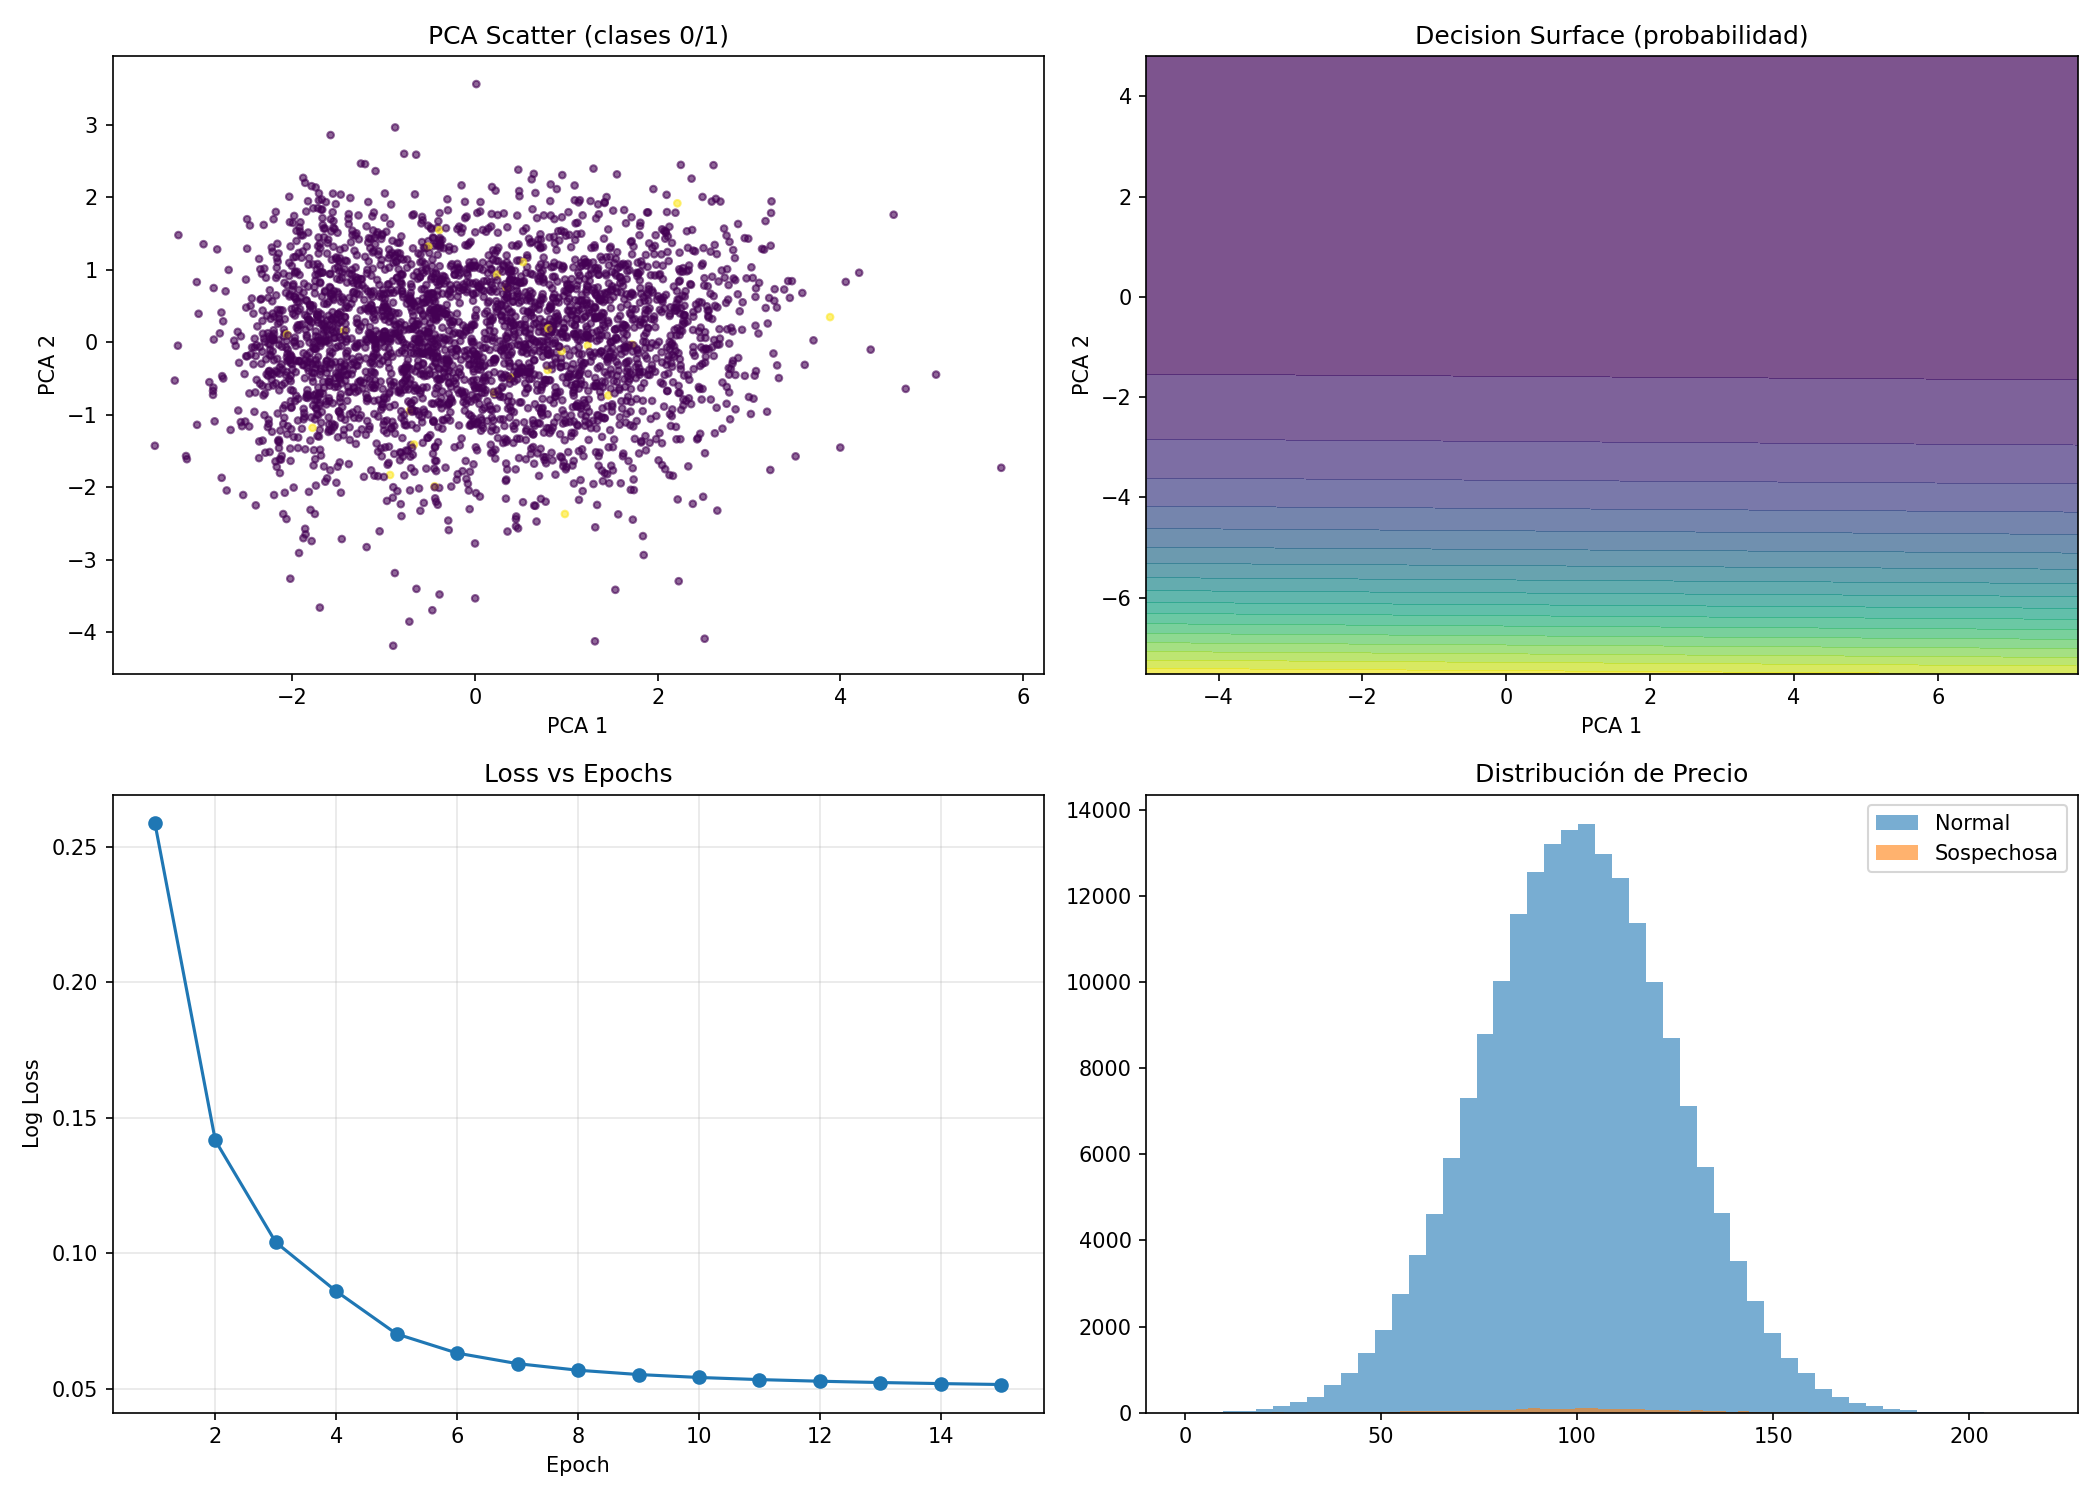
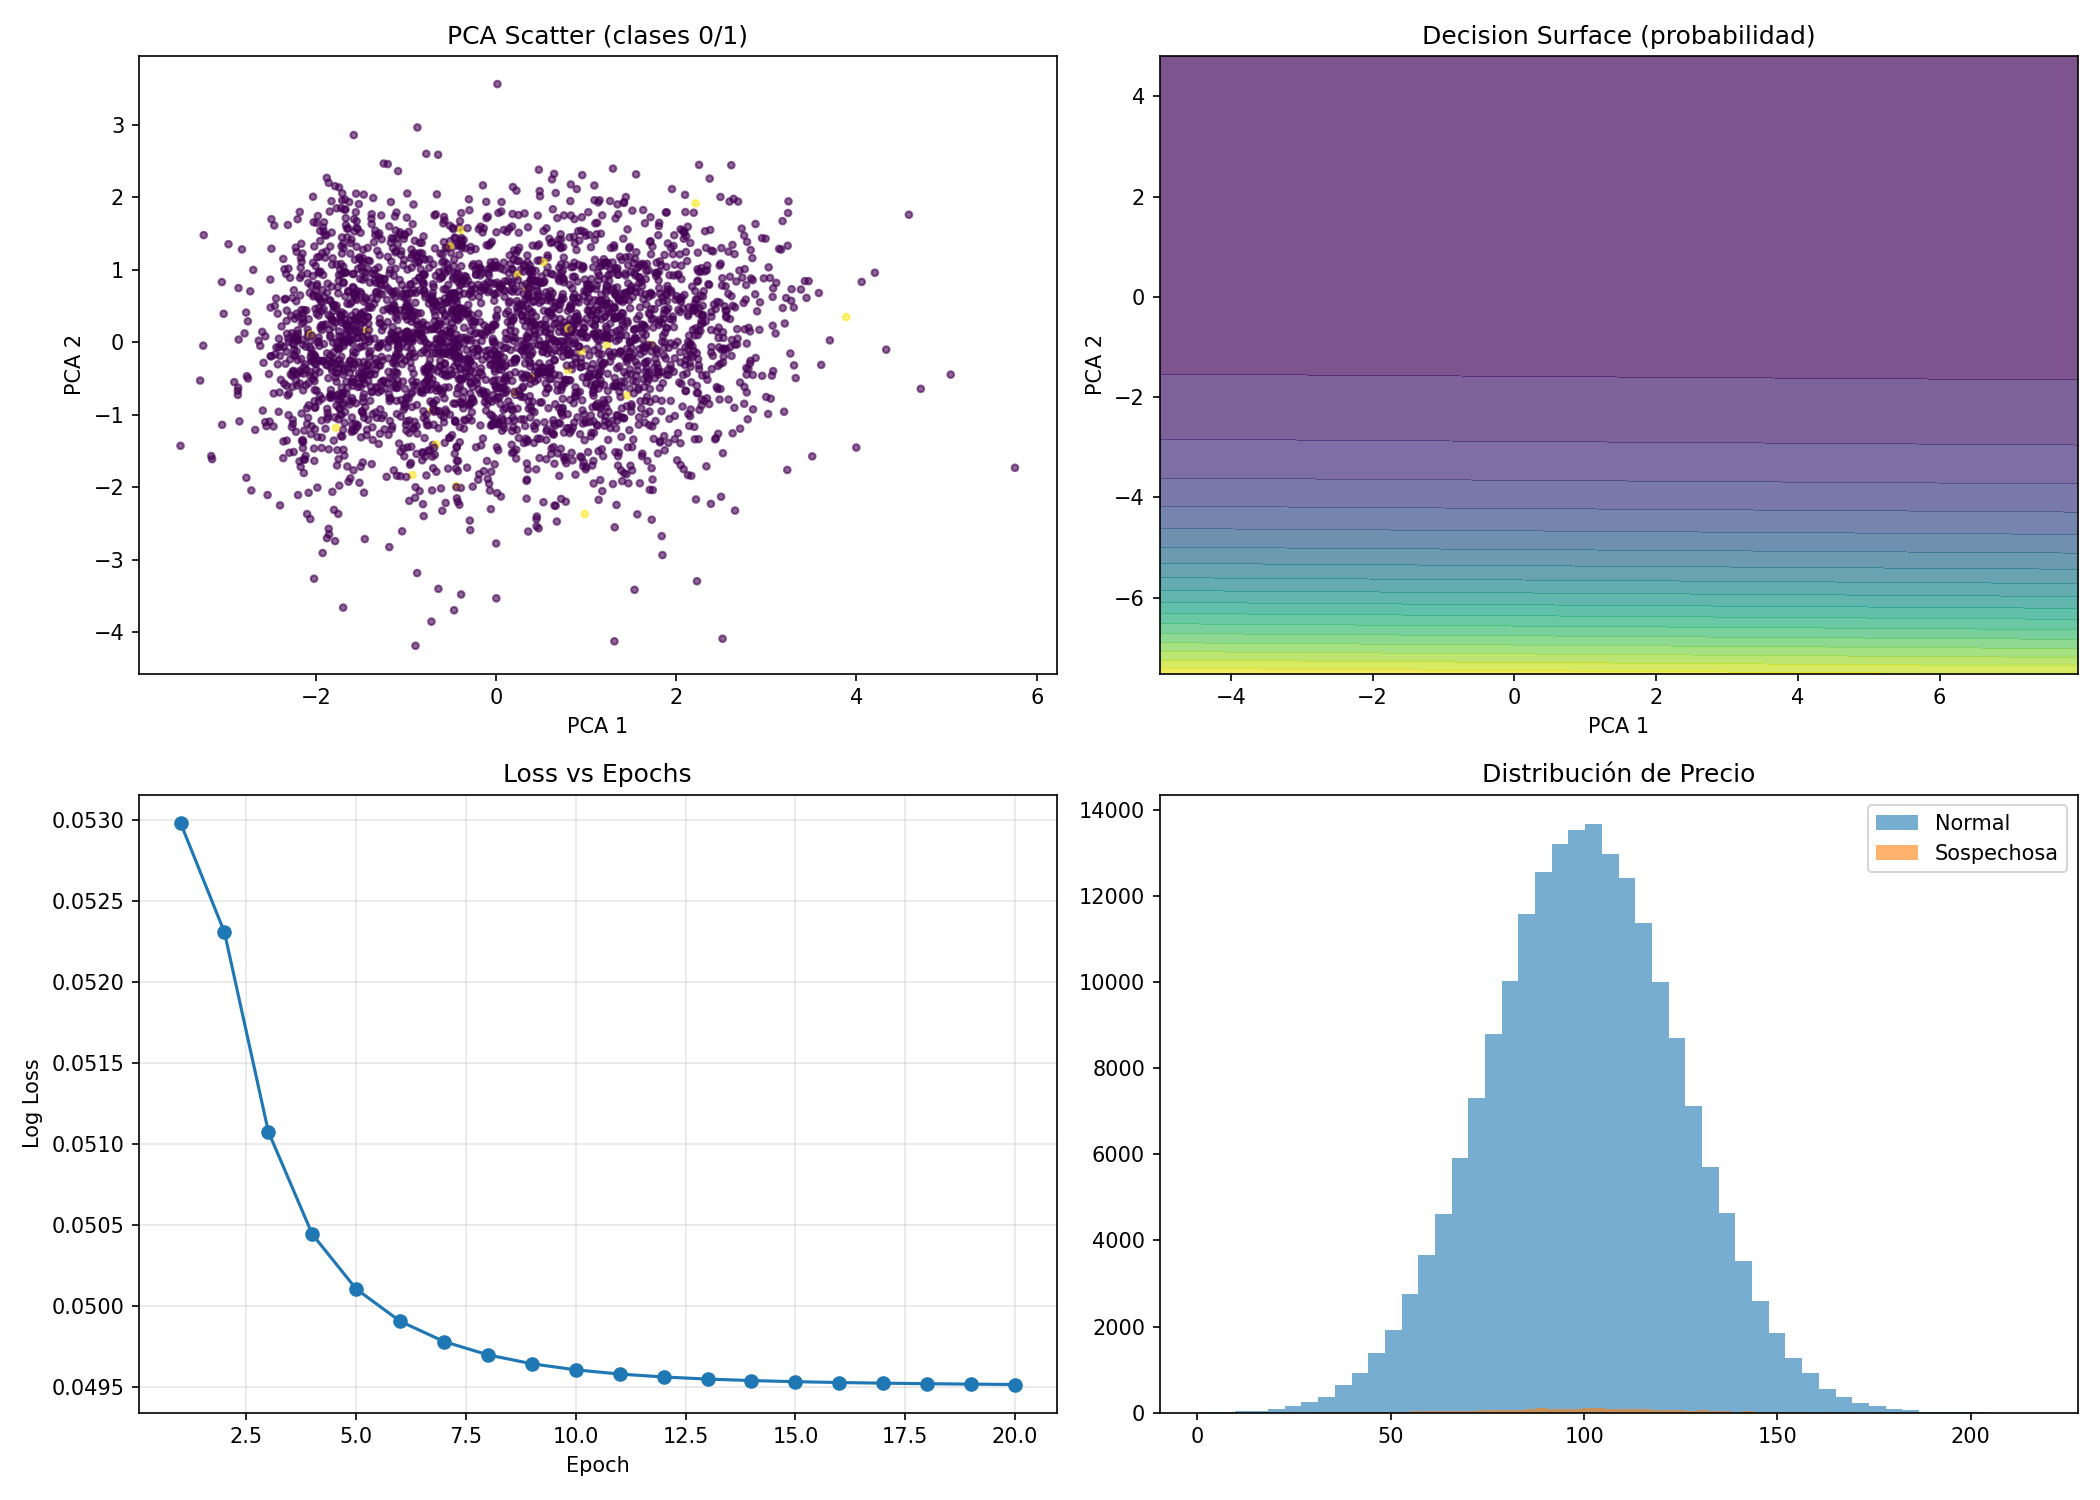
docs: mejorar README con instrucciones paso a paso y manejo de errores

diff --git a/reports/paso2_reporte.html b/reports/paso2_reporte.html
@@ -1,0 +1,55 @@
+
+<!doctype html>
+<html lang="es">
+<head>
+  <meta charset="utf-8" />
+  <title>Paso 2 - Reporte</title>
+  <style>
+    body { font-family: Arial, sans-serif; margin: 24px; color: #111; }
+    h1 { margin: 0 0 8px 0; }
+    .muted { color: #555; }
+    .card { border: 1px solid #ddd; border-radius: 10px; padding: 16px; margin: 14px 0; }
+    table { border-collapse: collapse; width: 100%; }
+    th, td { border: 1px solid #ddd; padding: 10px; text-align: left; }
+    th { background: #f6f6f6; }
+    code { background: #f2f2f2; padding: 2px 6px; border-radius: 6px; }
+  </style>
+</head>
+<body>
+  <h1>PASO 2 - REPORTE (Modelado + Visualización)</h1>
+  <div class="muted">Working directory: <code>C:\laragon\www\analisis-datos-pandas-numpy</code></div>
+
+  <div class="card">
+    <h2>Modelo base</h2>
+    <table>
+      <tr><th>Modelo</th><td>Logistic Regression</td></tr>
+      <tr><th>Accuracy</th><td>0.9901</td></tr>
+    </table>
+  </div>
+
+  <div class="card">
+    <h2>Aprendizaje</h2>
+    <table>
+      <tr><th>Modelo</th><td>SGDClassifier (log_loss)</td></tr>
+      <tr><th>Epochs</th><td>20</td></tr>
+      <tr><th>Loss inicial</th><td>0.052981</td></tr>
+      <tr><th>Loss final</th><td>0.049513</td></tr>
+    </table>
+  </div>
+
+  <div class="card">
+    <h2>Salidas generadas</h2>
+    <table>
+      <tr><th>Decision surface</th><td><code>paso2_decision_surface.png</code></td></tr>
+      <tr><th>Learning curve</th><td><code>paso2_learning_curve_realtime.gif</code></td></tr>
+      <tr><th>Dashboard 2x2</th><td><code>paso2_2x2_dashboard.png</code></td></tr>
+    </table>
+    <p class="muted">Rutas completas:</p>
+    <ul>
+      <li>C:\laragon\www\analisis-datos-pandas-numpy\reports\paso2_decision_surface.png</li>
+      <li>C:\laragon\www\analisis-datos-pandas-numpy\reports\paso2_learning_curve_realtime.gif</li>
+      <li>C:\laragon\www\analisis-datos-pandas-numpy\reports\paso2_2x2_dashboard.png</li>
+    </ul>
+  </div>
+</body>
+</html>

diff --git a/README.md b/README.md
@@ -1,129 +1,116 @@
 📊 Análisis de Datos con Pandas, NumPy & SciPy
-Paso 1: Ingeniería de Características Avanzada
-Este proyecto implementa un pipeline de transformación y análisis de datos utilizando herramientas avanzadas del ecosistema científico de Python.
-Tecnologías utilizadas
-Pandas → Merge complejo y window functions (rolling 48h)
-NumPy → Target Encoding vectorizado (sin bucles for)
-SciPy → Filtro Savitzky–Golay y test estadístico Kolmogorov–Smirnov
-El objetivo es generar features avanzadas listas para modelado o análisis exploratorio.
 
-📁 Estructura del Proyecto:
+Proyecto de ingeniería de características y visualización avanzada utilizando el ecosistema científico de Python.
+
+Este repositorio implementa:
+✔ Generación de datos sintéticos
+✔ Feature Engineering avanzado
+✔ Validaciones estadísticas
+✔ Modelado supervisado
+✔ Visualización de alta dimensionalidad
+✔ Dashboard 2x2 profesional
+✔ Exportación automática de reportes
+
+🧠 ¿Qué hace este proyecto?
+
+Este proyecto simula un entorno real de análisis de transacciones:
+
+Genera usuarios y transacciones.
+Construye variables avanzadas (features).
+Aplica técnicas estadísticas.
+Reduce dimensionalidad.
+Entrena modelos de clasificación.
+Genera visualizaciones y reportes automáticos.
+Está dividido en:
+
+🔹 Paso 1 → Ingeniería de Características
+
+🔹 Paso 2 → Modelado y Visualización
+
+📁 Estructura del Proyecto
 analisis-datos-pandas-numpy/
+│
 ├── src/
-│   └── pipeline_paso1.py
+│   ├── pipeline_paso1.py
+│   ├── paso2_modelo.py
+│   └── paso2_visualizacion.py
+│
 ├── data/
 ├── reports/
 ├── requirements.txt
 └── README.md
+🧩 Requisitos Previos
 
-⚙ Instalación:
-1⃣ Crear entorno virtual (python -m venv .venv)
-2⃣ Activar entorno virtual (.\.venv\Scripts\Activate.ps1)
-3⃣ Instalar dependencias (pip install -r requirements.txt)
+Antes de empezar necesitas:
 
-🚀 Ejecutar Paso 1 
-Ejecución básica (python src/pipeline_paso1.py)
-Ejecución con parámetros personalizados (python src/pipeline_paso1.py --n_users 5000 --n_tx 200000 --seed 42)
+Python 3.10 o superior
+Git instalado
+Terminal (CMD o PowerShell)
+Verificar Python:
+python --version
+📥 Cómo Clonar el Proyecto
 
-Parámetros disponibles: 
---n_users → cantidad de usuarios
---n_tx → cantidad de transacciones
---seed → semilla para reproducibilidad
+1⃣ Abrir la terminal
+2⃣ Ejecutar:
 
-🧠 Funcionalidades Implementadas
+git clone https://github.com/edwa0704/analisis-datos-pandas-numpy.git
+cd analisis-datos-pandas-numpy
+⚙ Instalación Paso a Paso
 
-✔ Generación de datos sintéticos
-✔ Merge validado (many_to_one)
-✔ Feature amount = price * volume
-✔ Rolling 48h por usuario (avg_amount_48h)
-✔ Target Encoding vectorizado (segment_te)
-✔ Suavizado Savitzky–Golay (price_smooth)
-✔ KS Test (normal vs sospechosa)
-✔ Optimización de tipos
-✔ Validaciones de calidad de datos
-✔ Export de dataset y reportes
+1⃣ Crear entorno virtual
+python -m venv .venv
 
-📤 Archivos Generados
-Al ejecutar el pipeline se generan:
+2⃣ Activar entorno virtual
+CMD:
+.\.venv\Scripts\activate.bat
+
+PowerShell:
+.\.venv\Scripts\Activate.ps1
+
+Si está activo verás algo así:
+(.venv)
+
+3⃣ Instalar dependencias
+pip install -r requirements.txt
+
+▶ Ejecutar Paso 1 – Ingeniería de Características
+
+Ejecución básica:
+
+python src/pipeline_paso1.py
+
+Ejecución personalizada:
+python src/pipeline_paso1.py --n_users 5000 --n_tx 200000 --seed 42
+🔧 Parámetros disponibles
+
+--n_users → Número de usuarios
+--n_tx → Número de transacciones
+--seed → Semilla para reproducibilidad
+
+📤 Archivos Generados en Paso 1
+
+Se crean automáticamente:
 
 data/paso1_features.csv
 reports/paso1_reporte.txt
 reports/data_quality_summary.csv
 reports/data_quality_nulls.csv
 
-✅ Verificación 
-La ejecución correcta debe mostrar en terminal:
-
-Shapes de usuarios y transacciones
-Confirmación de columnas generadas
-Resultado del KS test (stat y p-value)
-Validación de duplicados y nulos
-
-📝 Historial de Desarrollo
-Estructura base
-Generación de datos
-Merge y features
-Rolling 48h
-Target Encoding
-Suavizado con SciPy
-KS Test
-Reportes y validaciones
-Correcciones finales
-
-
-🔜 Próximo Paso
-Paso 2: Visualización de Alta Dimensionalidad
-Reducción de dimensionalidad (t-SNE o UMAP)
-Visualización con Seaborn
-Representación de múltiples variables en 2D
-
-📊 Paso 2: Visualización de Alta Dimensionalidad (Matplotlib & Seaborn)
-🎯 Objetivo
-
-Visualizar datos de alta dimensionalidad (>3 dimensiones) mediante reducción a 2 componentes y modelado supervisado.
-
-Se implementa:
-- 🔹 Reducción de dimensionalidad con **t-SNE (Scikit-learn)**
-- 🔹 Visualización con **Seaborn (color = price, tamaño = volume)**
-- 🔹 Modelo de clasificación (Logistic Regression)
-- 🔹 Superficie de decisión
-- 🔹 Curva de aprendizaje (Loss vs Epochs)
-- 🔹 Curva en tiempo real (GIF)
-- 🔹 Dashboard final 2x2 (Matplotlib)
-- 🔹 Exportación de métricas en CSV
-
-📁 Estructura del Proyecto:
-src/
- ├── pipeline_paso1.py
- ├── paso2_visualizacion.py
- └── paso2_modelo.py
-
-📦 Requisitos
-
-Python 3.10+
-
-Instalar dependencias:
-
-```bash
-python -m venv .venv
-.\.venv\Scripts\activate
-pip install -r requirements.txt
-```
-▶ Ejecutar Paso 2:
+▶ Ejecutar Paso 2 
+– Modelado y Visualización
 python src/paso2_modelo.py
 
 Ejecución personalizada:
 python src/paso2_modelo.py --epochs 15 --sample 20000
 
-Opciones disponibles:
-Argumento	Descripción
---epochs	Número de épocas para SGDClassifier
---sample	Tamaño de muestra para entrenamiento
---no-show	No abrir imágenes automáticamente
+🔧 Parámetros disponibles
+--epochs → Número de épocas
+--sample → Tamaño de muestra
+--no-show → No abrir imágenes automáticamente
 
-📁 Archivos generados
+📤 Archivos Generados en Paso 2
 
-Se guardan en la carpeta reports/:
+En carpeta reports/:
 paso2_decision_surface.png
 paso2_learning_curve_realtime.gif
 paso2_2x2_dashboard.png
@@ -131,49 +118,55 @@ paso2_reporte.txt
 paso2_reporte.html
 paso2_metrics.csv
 
-📈 Descripción técnica
-🔹 Reducción de dimensionalidad
-Se utiliza TSNE de Scikit-learn para transformar múltiples variables numéricas en 2 componentes visualizables.
+🧪 ¿Cómo Saber si Funcionó Correctamente?
 
-🔹 Visualización
-Se utiliza Seaborn scatterplot donde:
-Color representa el precio (price)
-Tamaño del punto representa el volumen (volume)
+Paso 1 debe mostrar en terminal:
+Shapes de usuarios y transacciones
+Confirmación de columnas generadas
+Resultado del KS test
+Validación de nulos y duplicados
+Paso 2 debe:
+Mostrar scatter plot
+Generar GIF en tiempo real
+Crear dashboard 2x2
+Exportar métricas
 
-🔹 Modelo
-Se entrena:
-Logistic Regression (modelo base)
-SGDClassifier para curva de aprendizaje
+Si eso ocurre → ejecución correcta ✅
 
-🔹 Dashboard 2x2 incluye:
-Scatter PCA 2D
-Superficie de decisión
-Curva Loss vs Epochs
-Distribución de precios
+🚨 Errores Comunes y Soluciones
+❌ Error: No se reconoce python
+Instalar Python desde:
+https://www.python.org/downloads/
 
-🧪 Evidencia reproducible
+❌ Error: No se reconoce git
+Instalar Git desde:
+https://git-scm.com/
 
-El proyecto puede clonarse y ejecutarse desde cero:
-git clone <URL_DEL_REPOSITORIO>
-cd analisis-datos-pandas-numpy
-python -m venv .venv
-.\.venv\Scripts\activate
-pip install -r requirements.txt
-python src/paso2_modelo.py
+❌ Error al activar entorno virtual
+Asegurarse de usar el comando correcto según terminal (CMD o PowerShell).
 
-✅ Resultado
-El Paso 2 cumple con:
-Visualización de alta dimensionalidad
-Modelado supervisado
-Subplots 2x2 requeridos
-Curva de aprendizaje en tiempo real
-Exportación de métricas
+❌ Error instalando SciPy
+Usar Python 3.10 o 3.11 (algunas versiones no son compatibles con 3.13).
 
-🧠 Flujo de ejecución del Paso 2
-1. Se cargan las features generadas en Paso 1.
-2. Se reduce dimensionalidad con t-SNE.
-3. Se entrena modelo base (Logistic Regression).
-4. Se genera superficie de decisión.
-5. Se entrena SGDClassifier por épocas.
-6. Se construye dashboard 2x2.
-7. Se exportan métricas y reportes.
+❌ No se generan imágenes
+Eliminar carpeta reports/ y ejecutar nuevamente.
+
+📊 Tecnologías Utilizadas
+
+Pandas
+NumPy
+SciPy
+Scikit-learn
+Matplotlib
+Seaborn
+
+🔄 Flujo Completo del Proyecto
+
+Generación de datos
+Ingeniería de características
+Validación estadística
+Reducción de dimensionalidad
+Entrenamiento de modelo
+Curva de aprendizaje
+Dashboard 2x2
+Exportación de reportes
